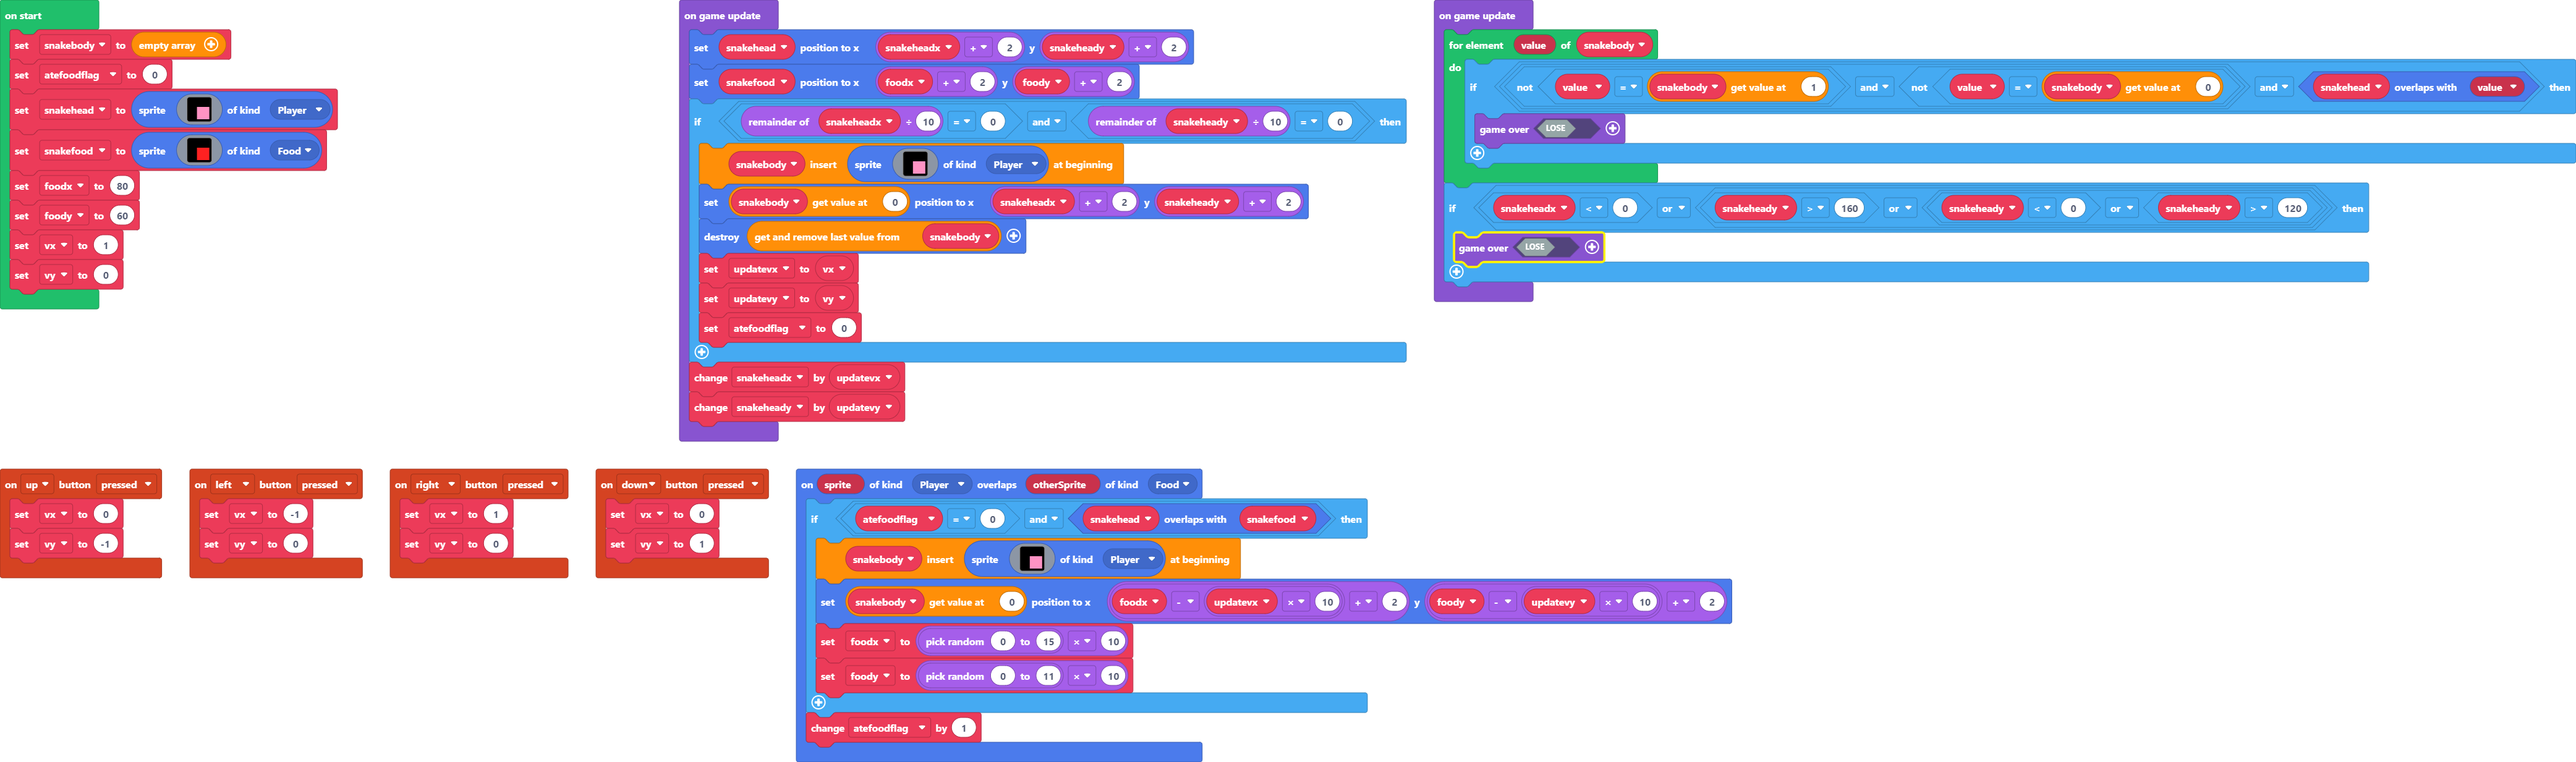
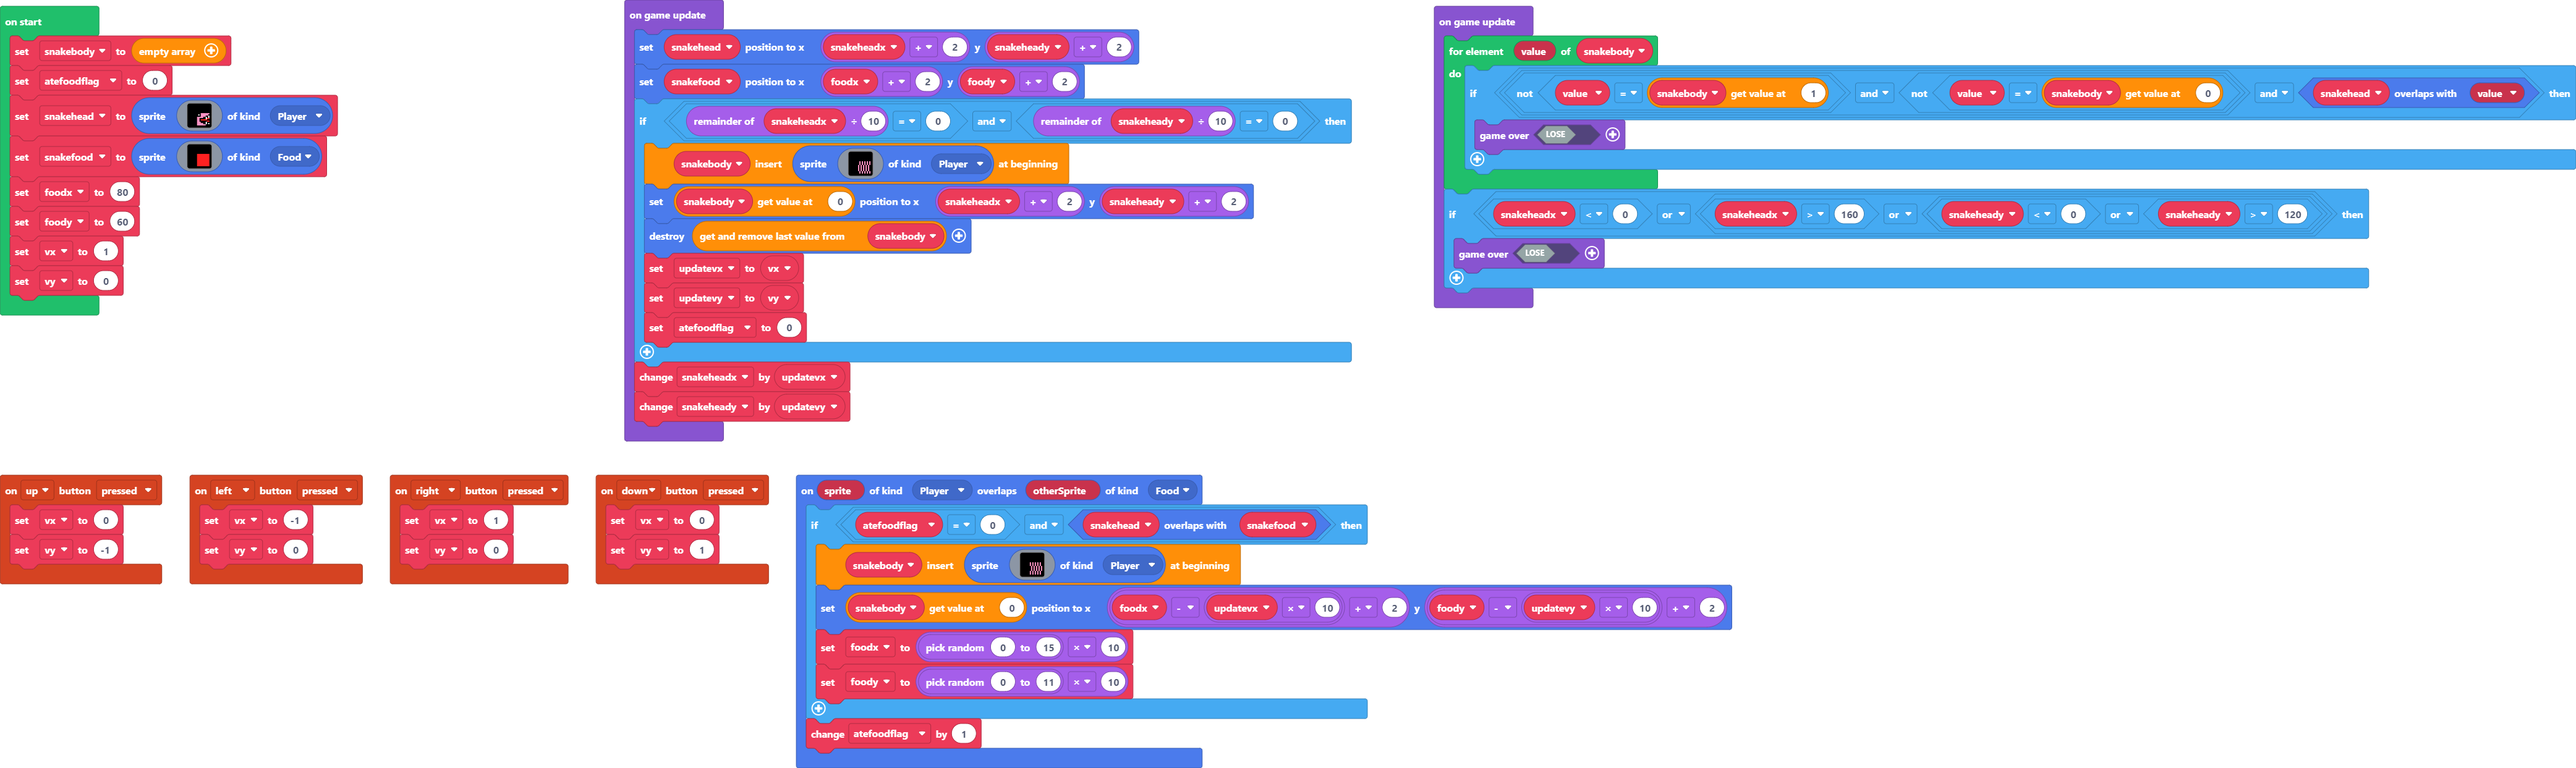
change snake head and body

Changed region(s): [[0.2184, 0.0, 1.0, 0.5856], [0.0, 0.6164, 0.6863, 0.9554], [0.0, 0.0, 0.156, 0.4315]]

diff --git a/main.ts b/main.ts
@@ -23,16 +23,16 @@ sprites.onOverlap(SpriteKind.Player, SpriteKind.Food, function (sprite, otherSpr
             . . . . . . . . . . . . . . . . 
             . . . . . . . . . . . . . . . . 
             . . . . . . . . . . . . . . . . 
-            . . . . . . 3 3 3 3 3 3 3 3 3 3 
-            . . . . . . 3 3 3 3 3 3 3 3 3 3 
-            . . . . . . 3 3 3 3 3 3 3 3 3 3 
-            . . . . . . 3 3 3 3 3 3 3 3 3 3 
-            . . . . . . 3 3 3 3 3 3 3 3 3 3 
-            . . . . . . 3 3 3 3 3 3 3 3 3 3 
-            . . . . . . 3 3 3 3 3 3 3 3 3 3 
-            . . . . . . 3 3 3 3 3 3 3 3 3 3 
-            . . . . . . 3 3 3 3 3 3 3 3 3 3 
-            . . . . . . 3 3 3 3 3 3 3 3 3 3 
+            . . . . . . 3 f 3 f 3 f 3 f 3 f 
+            . . . . . . 3 f 3 f 3 f 3 f 3 f 
+            . . . . . . 3 f 3 f 3 f 3 f 3 f 
+            . . . . . . f 3 f 3 f 3 f 3 f 3 
+            . . . . . . f 3 f 3 f 3 f 3 f 3 
+            . . . . . . f 3 f 3 f 3 f 3 f 3 
+            . . . . . . f 3 f 3 f 3 f 3 f 3 
+            . . . . . . 3 f 3 f 3 f 3 f 3 f 
+            . . . . . . 3 f 3 f 3 f 3 f 3 f 
+            . . . . . . 3 f 3 f 3 f 3 f 3 f 
             `, SpriteKind.Player))
         snakebody[0].setPosition(foodx - updatevx * 10 + 2, foody - updatevy * 10 + 2)
         foodx = randint(0, 15) * 10
@@ -61,16 +61,16 @@ snakehead = sprites.create(img`
     . . . . . . . . . . . . . . . . 
     . . . . . . . . . . . . . . . . 
     . . . . . . . . . . . . . . . . 
-    . . . . . . 3 3 3 3 3 3 3 3 3 3 
-    . . . . . . 3 3 3 3 3 3 3 3 3 3 
-    . . . . . . 3 3 3 3 3 3 3 3 3 3 
-    . . . . . . 3 3 3 3 3 3 3 3 3 3 
-    . . . . . . 3 3 3 3 3 3 3 3 3 3 
-    . . . . . . 3 3 3 3 3 3 3 3 3 3 
-    . . . . . . 3 3 3 3 3 3 3 3 3 3 
-    . . . . . . 3 3 3 3 3 3 3 3 3 3 
-    . . . . . . 3 3 3 3 3 3 3 3 3 3 
-    . . . . . . 3 3 3 3 3 3 3 3 3 3 
+    . . . . . . f f f 3 3 3 3 3 3 3 
+    . . . . . . f 1 f 3 3 3 3 3 3 f 
+    . . . . . . f f f 3 3 3 3 f f 1 
+    . . . . . . 3 3 3 3 3 f f 1 . 1 
+    . . . . . . 3 3 f f f f . 1 2 2 
+    . . . . . . 3 3 f 2 2 2 2 2 . . 
+    . . . . . . 3 3 f f . . . . 2 2 
+    . . . . . . 3 3 3 f f f . 1 . . 
+    . . . . . . 3 3 3 3 3 f f 1 . 1 
+    . . . . . . 3 3 3 3 3 3 3 f f f 
     `, SpriteKind.Player)
 snakefood = sprites.create(img`
     . . . . . . . . . . . . . . . . 
@@ -105,16 +105,16 @@ game.onUpdate(function () {
             . . . . . . . . . . . . . . . . 
             . . . . . . . . . . . . . . . . 
             . . . . . . . . . . . . . . . . 
-            . . . . . . 3 3 3 3 3 3 3 3 3 3 
-            . . . . . . 3 3 3 3 3 3 3 3 3 3 
-            . . . . . . 3 3 3 3 3 3 3 3 3 3 
-            . . . . . . 3 3 3 3 3 3 3 3 3 3 
-            . . . . . . 3 3 3 3 3 3 3 3 3 3 
-            . . . . . . 3 3 3 3 3 3 3 3 3 3 
-            . . . . . . 3 3 3 3 3 3 3 3 3 3 
-            . . . . . . 3 3 3 3 3 3 3 3 3 3 
-            . . . . . . 3 3 3 3 3 3 3 3 3 3 
-            . . . . . . 3 3 3 3 3 3 3 3 3 3 
+            . . . . . . f 3 f 3 f 3 f 3 f 3 
+            . . . . . . f 3 f 3 f 3 f 3 f 3 
+            . . . . . . f 3 f 3 f 3 f 3 f 3 
+            . . . . . . 3 f 3 f 3 f 3 f 3 f 
+            . . . . . . 3 f 3 f 3 f 3 f 3 f 
+            . . . . . . 3 f 3 f 3 f 3 f 3 f 
+            . . . . . . 3 f 3 f 3 f 3 f 3 f 
+            . . . . . . 3 f 3 f 3 f 3 f 3 f 
+            . . . . . . f 3 f 3 f 3 f 3 f 3 
+            . . . . . . f 3 f 3 f 3 f 3 f 3 
             `, SpriteKind.Player))
         snakebody[0].setPosition(snakeheadx + 2, snakeheady + 2)
         snakebody.pop().destroy()
@@ -131,7 +131,7 @@ game.onUpdate(function () {
             game.over(false)
         }
     }
-    if (snakeheadx < 0 || (snakeheady > 160 || (snakeheady < 0 || snakeheady > 120))) {
+    if (snakeheadx < 0 || (snakeheadx > 160 || (snakeheady < 0 || snakeheady > 120))) {
         game.over(false)
     }
 })
